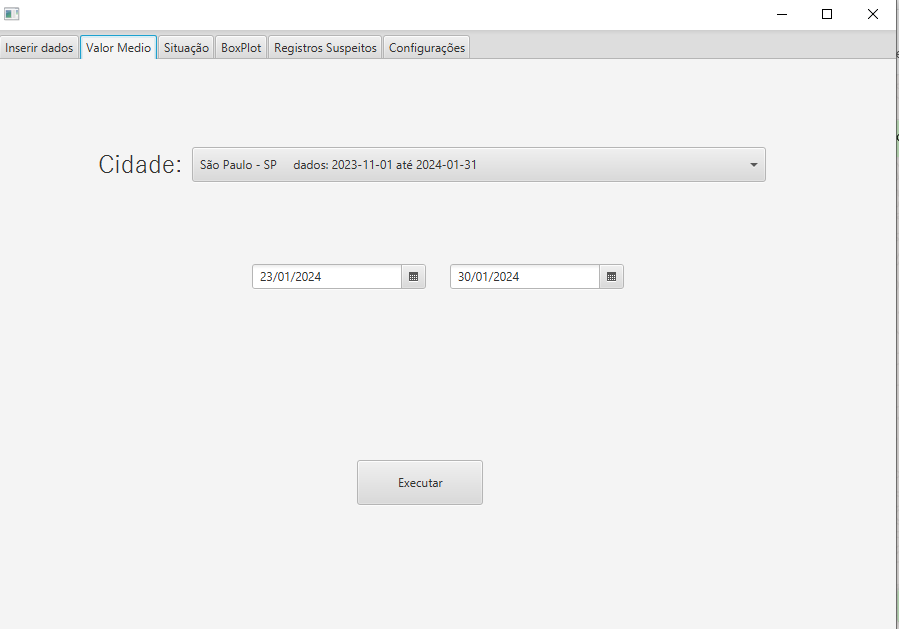
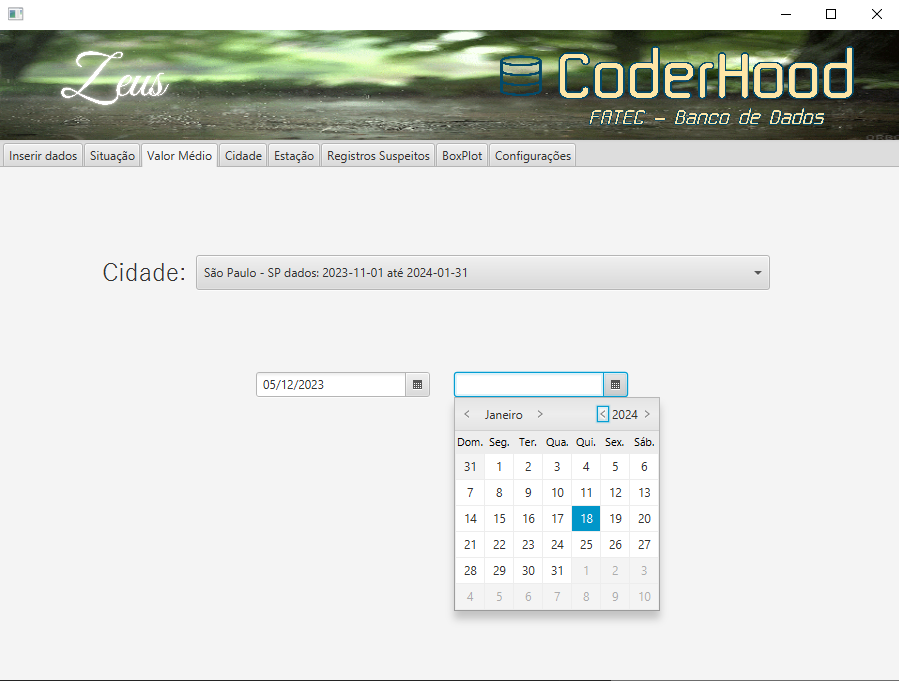
Documentacao sprint 4 (#83)
* Atualização de Telas #60

* Atualização de telas e descrição de acões no manual. #60

* Alteração no arquivo CSV. #60

diff --git a/documentacao/manual Zeus/manual Zeus.md b/documentacao/manual Zeus/manual Zeus.md
@@ -48,3 +48,44 @@ Ao iniciar o aplicativo pela primeira vez, um erro será exibido, pois é necess
 Para definir a faixa de valores, vá até a aba de configurações:
 
 ![aba de configurações](imagens/image(6).png)
+
+## Fazer upload do arquivo CSV.
+
+Para fazer upload do arquivo CSV, abra o Zeus, vá até a aba de Inserir Dados, clique em selecionar arquivo.(imagens/image.png).
+
+![Upload CSV](../imagens/image.png)
+
+Selecione o arquivo CSV que você deseja fazer upload e clique em "Salvar".
+Se a sigla ainda não estiver relacionada a uma cidade, aparecerá uma mensagem para cadastrar a sigla.![Upload CSV](../imagens/image-3.png)
+
+Se o upload for bem-sucedido, você verá uma mensagem de sucesso.![Upload CSV](../imagens/image-2.png)
+
+## Situação.
+
+## Valor Médio.
+
+Clique na aba Valor Médio, abrirá a tela com os espaços para inserir as informações necessária: Cidade, data e hora.
+Após o preenchimento das informações, clique em executar.![Upload CSV](../imagens/image-6.png)
+
+O tabela de valor médio será exibido na tela.
+![Upload CSV](../imagens/image-8.png).
+
+## Gerenciamento de Cidades.
+
+Clique na aba Cidade, tera a opção de deletar e adicionar cidades.![Upload CSV](../imagens/image-12.png).
+
+Para adicionar uma cidade, clique em adicionar cidade e preencha as informações necessárias: Cidade e Sigla.![Upload CSV](../imagens/image-13.png).
+
+Para deletar uma cidade, selecione a cidade e clique em deletar. Aparecerá uma mensagem de confirmação.
+![Upload CSV](../imagens/image-14.png).
+
+## Gerenciamento de Estações.
+
+Clique na aba Estação, aparecera as informações das estações cadastradas, tera a opção de nomear estação, descrição, deletar e adicionar estações.![Upload CSV](../imagens/image-22.png)
+
+Para nomear, fazer alguma descrição e adicionar as coordenadas de uma estação, clique na respectiva caixa de mensagem, preencha com as informações necessárias e aperte enter.![Upload CSV](../imagens/image-23.png)
+
+Para adicionar uma estação, clique em adicionar estação e preencha as informações necessárias:![Upload CSV](../imagens/image-10.png)
+
+Para deletar uma estação, clique em deletar estação, aparecerá uma mensagem de confirmação.![Upload CSV](../imagens/image-9.png)
+

diff --git a/documentacao/documentacao.md b/documentacao/documentacao.md
@@ -60,14 +60,18 @@ Como meteorologista, eu quero inserir um CSV e adicionar os dados coletados de u
 **Interface do usuário:**
 
 **Tela inicial:**
+- Clicar no botão para selecionar o arquivo CSV.
 
 ![Tela Inicial](imagens/image.png)
 
 **Arquivo selecionado com sucesso:**
+- Serão exibidos: o nome da cidade, a estação processada, quantos registros foram feitos, e se existem registros suspeitos.
 
 ![Arquivo Selecionado](imagens/image-1.png)
 
-**Após selecionar para salvar na base de dados:**
+**Após arquivo selecionado, clique em salvar para que o arquivo seja adicionado à base de dados:**
+
+- Será exibido um alerta de confirmação com as informações do registro.
 
 ![Salvar na Base de Dados](imagens/image-2.png)
 
@@ -178,11 +182,9 @@ Como pesquisador, eu quero gerenciar estações, podendo assim escalar e manejar
 
 **Interface do usuário:**
 
- ![estacao-1](imagens/image-9.png)
+ ![estacao-1](imagens/image-10.png)
 
- ![estacao-2](imagens/image-10.png)
-
-![estaco-3](imagens/image-11.png)
+ ![estacao-2](imagens/image-9.png)
 
 ##
 
